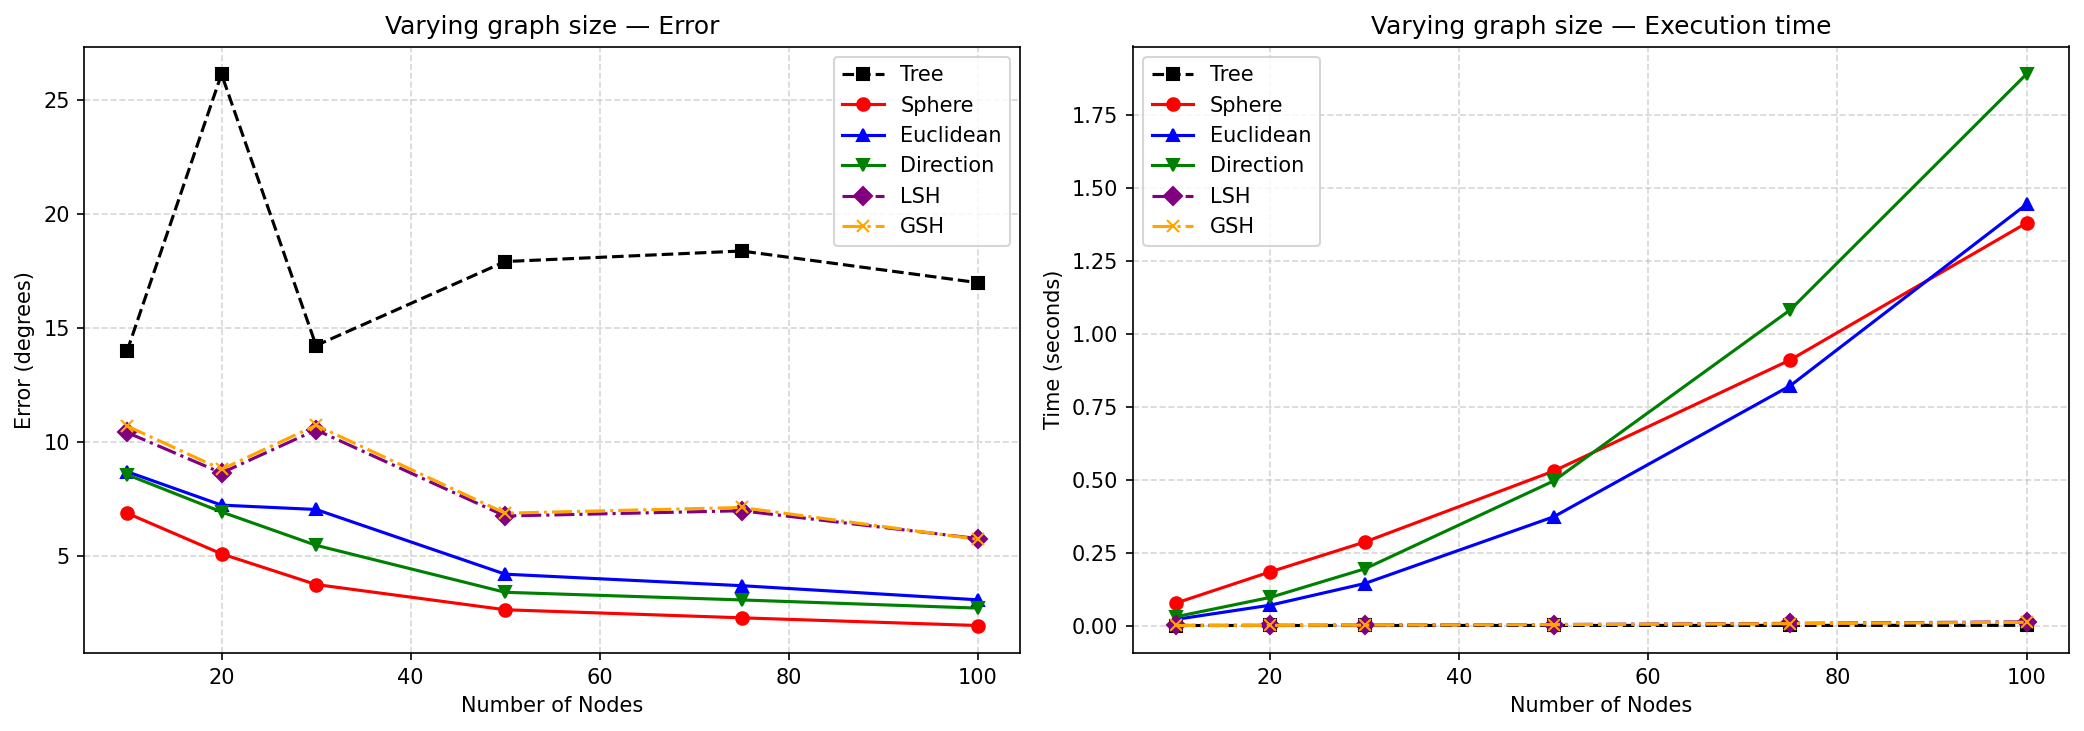
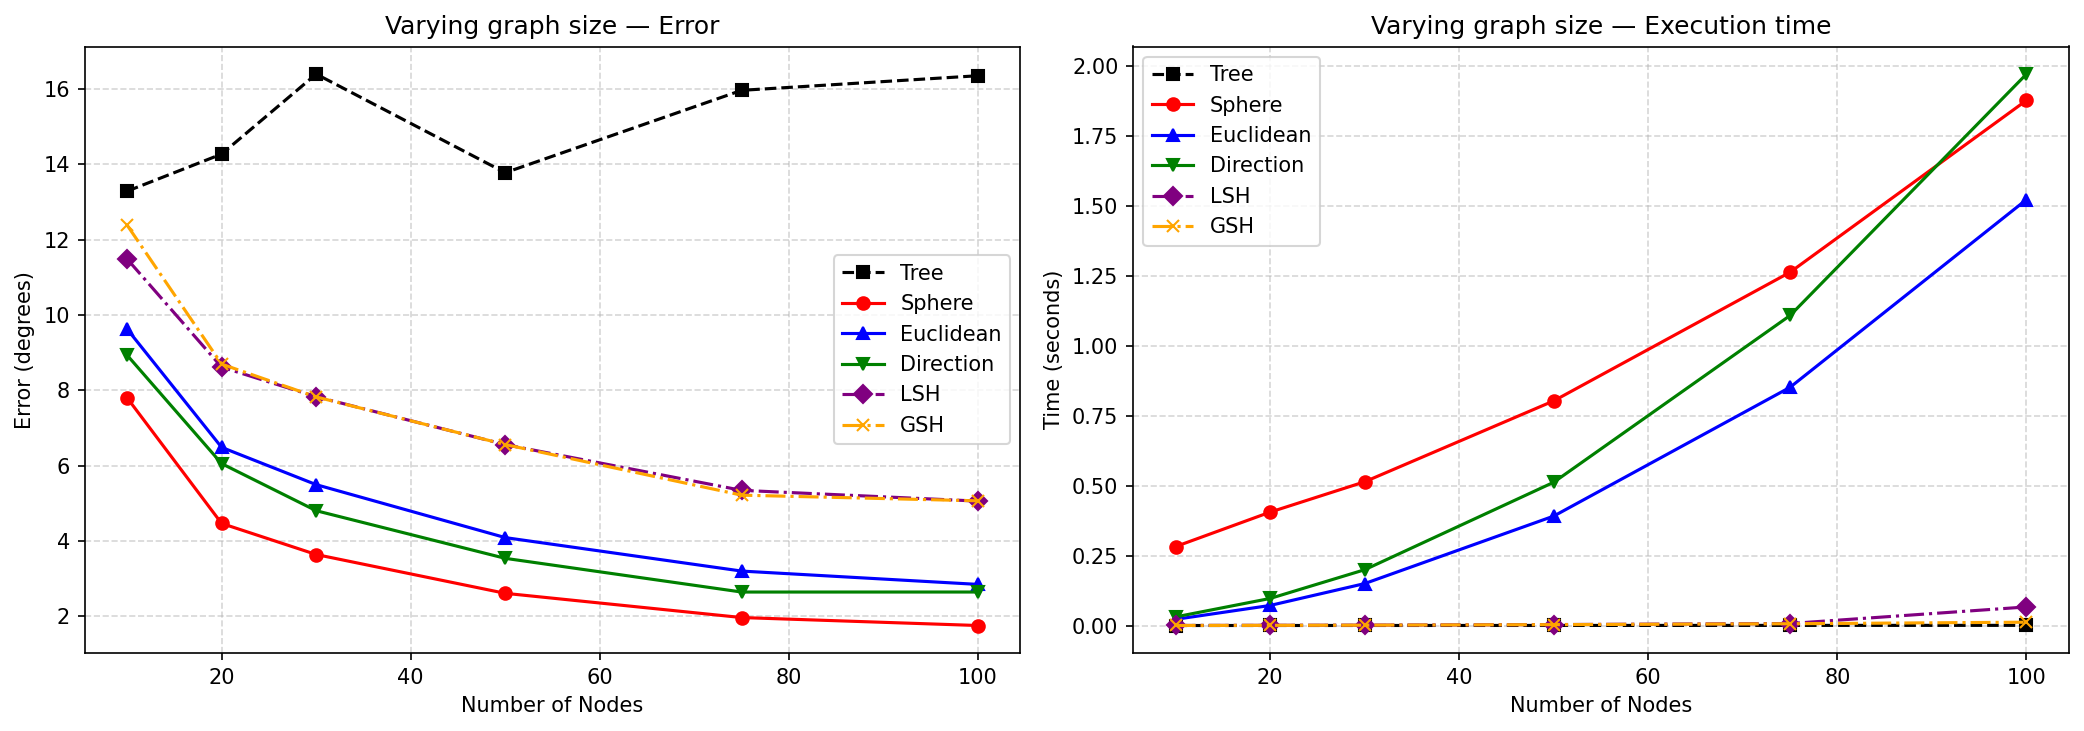
added IRLS weights

diff --git a/src/graph.py b/src/graph.py
@@ -161,22 +161,35 @@ class Graph:
     # ======================================================================
 
     @staticmethod
-    def _averaging_euclidean(estimates: List[np.ndarray]) -> np.ndarray:
+    def _averaging_euclidean(
+        estimates: List[np.ndarray],
+        weights: Optional[np.ndarray] = None,
+    ) -> np.ndarray:
         """
         Euclidean average (Sec. 4.3 of [1]).
 
         Normalise each estimate to unit Frobenius norm, compute the
         componentwise mean, then re-normalise.  This ignores the curved
         geometry of the sphere but is fast and works surprisingly well.
+
+        Parameters
+        ----------
+        weights : array of shape (K,), optional
+            Per-estimate IRLS weights.  Uniform if None.
         """
-        # Map each 3×3 matrix to a unit-norm vector in R^9.
-        h_vecs = [h.flatten() / np.linalg.norm(h.flatten()) for h in estimates]
-        c = np.mean(h_vecs, axis=0)
+        h_vecs = np.array(
+            [h.flatten() / np.linalg.norm(h.flatten()) for h in estimates]
+        )
+        w = np.ones(len(estimates)) if weights is None else np.asarray(weights)
+        c = (w[:, None] * h_vecs).sum(axis=0)
         c /= np.linalg.norm(c)
         return c.reshape((3, 3))
 
     @staticmethod
-    def _averaging_direction(estimates: List[np.ndarray]) -> np.ndarray:
+    def _averaging_direction(
+        estimates: List[np.ndarray],
+        weights: Optional[np.ndarray] = None,
+    ) -> np.ndarray:
         """
         Direction-based average (Sec. 4.1 of [1]).
 
@@ -184,39 +197,56 @@ class Graph:
         the orthogonal complement of the other is zero.  Stacking these
         constraints for all estimates and solving in the least-squares sense
         reduces to finding the eigenvector of
-            M = Σ_k  (h_k h_k^T) / (h_k^T h_k)
+            M = Σ_k  w_k · (h_k h_k^T) / (h_k^T h_k)
         corresponding to the *largest* eigenvalue.
+
+        Parameters
+        ----------
+        weights : array of shape (K,), optional
+            Per-estimate IRLS weights.  Uniform if None.
         """
         h_vecs = [h.flatten() for h in estimates]
-        # Build the 9×9 matrix whose maximum eigenvector is the centroid.
-        M = sum(np.outer(h, h) / np.dot(h, h) for h in h_vecs)
+        w = np.ones(len(estimates)) if weights is None else np.asarray(weights)
+        M = sum(wk * np.outer(h, h) / np.dot(h, h) for wk, h in zip(w, h_vecs))
         eigenvalues, eigenvectors = np.linalg.eigh(M)
         # eigh returns eigenvalues in ascending order — take the last column.
         c = eigenvectors[:, -1]
         return c.reshape((3, 3))
 
     @staticmethod
-    def _averaging_sphere(estimates: List[np.ndarray]) -> np.ndarray:
+    def _averaging_sphere(
+        estimates: List[np.ndarray],
+        weights: Optional[np.ndarray] = None,
+    ) -> np.ndarray:
         """
-        Spherical average — L1 geodesic mean on the unit sphere (Sec. 4.2 of [1]).
+        Spherical average — weighted L1 geodesic mean on the unit sphere (Sec. 4.2 of [1]).
 
-        The centroid c minimises Σ_k arccos(c^T h̄_k) subject to ||c|| = 1.
-        Setting the gradient to zero gives a fixed-point equation (Eq. 10 in [1]):
-            c = α · Σ_k  h̄_k / sqrt(1 − (c^T h̄_k)²)
+        The centroid c minimises Σ_k w_k · arccos(c^T h̄_k) subject to ||c|| = 1.
+        Setting the gradient to zero gives the fixed-point equation (Eq. 10 in [1]):
+            c = α · Σ_k  w_k · h̄_k / sqrt(1 − (c^T h̄_k)²)
         which we iterate until convergence.
+
+        Parameters
+        ----------
+        weights : array of shape (K,), optional
+            Per-estimate IRLS weights (w_k in the formula above).  Uniform if None.
         """
         # (K, 9) matrix of unit-norm flattened homographies
         H = np.stack([h.flatten() for h in estimates])
         H /= np.linalg.norm(H, axis=1, keepdims=True)
 
-        # Initialise with Euclidean mean
-        c = H.mean(axis=0)
+        irls_w = (
+            np.ones(len(estimates)) if weights is None else np.asarray(weights)
+        )
+
+        # Initialise with weighted Euclidean mean
+        c = (irls_w[:, None] * H).sum(axis=0)
         c /= np.linalg.norm(c)
 
         for _ in range(50):
             dots = np.clip(H @ c, -1.0, 1.0)  # (K,)
-            weights = 1.0 / np.maximum(np.sqrt(1 - dots**2), 1e-6)  # (K,)
-            c_new = weights @ H  # (9,)
+            sphere_w = 1.0 / np.maximum(np.sqrt(1 - dots**2), 1e-6)  # (K,)
+            c_new = (irls_w * sphere_w) @ H  # (9,)
             c_new /= np.linalg.norm(c_new)
             if np.max(np.abs(c_new - c)) < 1e-8:
                 break
@@ -243,6 +273,62 @@ class Graph:
         )
 
     # ======================================================================
+    # IRLS helpers
+    # ======================================================================
+
+    def _edge_residual(self, i: int, j: int) -> float:
+        """
+        Angular residual (radians) between the measured Z_ij and the
+        currently estimated X_i · X_j^{-1}.
+
+        This is the per-edge analogue of ``calculate_angular_error``:
+        both vectors are flattened to R^9 and normalised before the dot
+        product, and the absolute value handles the sign ambiguity of
+        projective representations.
+        """
+        Z_ij = self.edges[(i, j)]
+        pred = self.vertices[i] @ np.linalg.inv(self.vertices[j])
+        v1 = Z_ij.flatten()
+        v1 = v1 / np.linalg.norm(v1)
+        v2 = pred.flatten()
+        v2 = v2 / np.linalg.norm(v2)
+        return float(np.arccos(np.clip(np.abs(np.dot(v1, v2)), 0.0, 1.0)))
+
+    def _compute_irls_weights(
+        self, cauchy_scale: float
+    ) -> Dict[Tuple[int, int], float]:
+        """
+        Compute Cauchy IRLS weights for every undirected edge.
+
+        For each edge (i, j) the residual r = min(r_ij, r_ji) is computed
+        (both are equal by construction, but the min guarantees symmetry as
+        stated in the paper).  The Cauchy robust function
+            w = 1 / (1 + (r / cauchy_scale)^2)
+        maps small residuals (inliers) close to 1 and large residuals
+        (outliers) toward 0.
+
+        Parameters
+        ----------
+        cauchy_scale : float
+            Controls the inlier/outlier threshold.  Residuals much larger
+            than this value are effectively suppressed.
+
+        Returns
+        -------
+        weights : dict  {(min_i, max_j) → float}
+            One weight per undirected edge.
+        """
+        weights: Dict[Tuple[int, int], float] = {}
+        for i, j in self.edges:
+            if i >= j:
+                continue
+            r_ij = self._edge_residual(i, j)
+            r_ji = self._edge_residual(j, i)
+            r = min(r_ij, r_ji)
+            weights[(i, j)] = 1.0 / (1.0 + (r / cauchy_scale) ** 2)
+        return weights
+
+    # ======================================================================
     # METHOD 1: Iterative synchronization  (Madhavan et al. [1])
     # ======================================================================
 
@@ -252,9 +338,12 @@ class Graph:
         max_iters: int = 100,
         tol: float = 1e-6,
         gauss_seidel: bool = False,
+        irls_iters: int = 0,
+        cauchy_scale: float = 0.1,
     ) -> None:
         """
-        Iterative synchronization following Madhavan, Fusiello & Arrigoni [1].
+        Iterative synchronization following Madhavan, Fusiello & Arrigoni [1],
+        with optional IRLS outlier suppression.
 
         Stops early when the maximum per-entry change across all vertices
         drops below ``tol`` (convergence criterion).
@@ -262,15 +351,22 @@ class Graph:
         For each node i (processed in descending degree order):
           1. Compute neighbour estimates: X_{i|j} = Z_{ij} · X_j  for every
              neighbour j of i.
-          2. Average these estimates using the chosen method to get a new X_i.
+          2. Average these estimates (weighted by current IRLS weights) to
+             get a new X_i.
           3. Re-normalise X_i into SL(3).
+
+        When ``irls_iters > 0`` an outer IRLS loop wraps the inner sync sweep:
+        after each full convergence, per-edge Cauchy weights are recomputed
+        from the residual  r_ij = angle(Z_ij, X_i · X_j^{-1})  in R^9, then
+        the inner sweep restarts with the updated weights.  This suppresses
+        gross-outlier edges without requiring explicit outlier detection.
 
         Parameters
         ----------
         avg_method : str
             One of ``"euclidean"``, ``"direction"``, ``"sphere"``.
         max_iters : int
-            Maximum number of full sweeps over all vertices.
+            Maximum number of full sweeps per IRLS round.
         tol : float
             Convergence threshold on max |X_new - X_old| entry-wise.
         gauss_seidel : bool
@@ -280,40 +376,67 @@ class Graph:
             images due to order-dependent updates; benchmark before enabling.
             Default is False (Jacobi): all updates applied after the full sweep,
             order-independent and consistent with the original paper.
+        irls_iters : int
+            Number of IRLS outer iterations (weight-update rounds).  0 (default)
+            gives the original unweighted behaviour.
+        cauchy_scale : float
+            Inlier/outlier threshold for the Cauchy weight function (radians).
+            Edges with residual >> cauchy_scale are suppressed toward weight 0.
+            Typical range: 0.05–0.3 depending on expected noise level.
         """
         sorted_verts = self._sorted_vertices_by_degree()
         avg_func = self._averaging_map.get(
             avg_method.lower(), self._averaging_euclidean
         )
 
-        for _ in range(max_iters):
-            max_change = 0.0
-            new_vertices = {}
-            for i in sorted_verts:
-                neighbours = self.adj.get(i, set())
-                if not neighbours:
-                    continue
+        # Uniform weights to start; updated each IRLS round.
+        edge_weights: Dict[Tuple[int, int], float] = {
+            (min(i, j), max(i, j)): 1.0 for i, j in self.edges if i < j
+        }
 
-                # Eq. (4) in [1]: X_{i|j} = Z_{ij} · X_j
-                estimates = [
-                    self.edges[(i, j)] @ self.vertices[j] for j in neighbours
-                ]
+        for _outer in range(irls_iters + 1):
+            # ── Inner sync sweep ─────────────────────────────────────────────
+            for _ in range(max_iters):
+                max_change = 0.0
+                new_vertices = {}
+                for i in sorted_verts:
+                    neighbours = list(self.adj.get(i, set()))
+                    if not neighbours:
+                        continue
 
-                avg_xi = avg_func(estimates)
-                x_new = self._norm_matrix(avg_xi)
+                    # Eq. (4) in [1]: X_{i|j} = Z_{ij} · X_j
+                    estimates = [
+                        self.edges[(i, j)] @ self.vertices[j]
+                        for j in neighbours
+                    ]
+                    w = np.array(
+                        [
+                            edge_weights[(min(i, j), max(i, j))]
+                            for j in neighbours
+                        ]
+                    )
 
-                max_change = max(max_change, np.max(np.abs(x_new - self.vertices[i])))
+                    avg_xi = avg_func(estimates, w)
+                    x_new = self._norm_matrix(avg_xi)
 
-                if gauss_seidel:
-                    self.vertices[i] = x_new
-                else:
-                    new_vertices[i] = x_new
+                    max_change = max(
+                        max_change, np.max(np.abs(x_new - self.vertices[i]))
+                    )
 
-            if not gauss_seidel:
-                self.vertices.update(new_vertices)
+                    if gauss_seidel:
+                        self.vertices[i] = x_new
+                    else:
+                        new_vertices[i] = x_new
 
-            if max_change < tol:
-                break
+                if not gauss_seidel:
+                    self.vertices.update(new_vertices)
+
+                if max_change < tol:
+                    break
+
+            # ── IRLS weight update (skip after the last round) ────────────────
+            if _outer < irls_iters:
+                edge_weights = self._compute_irls_weights(cauchy_scale)
 
     # ======================================================================
     # METHOD 2: Spectral synchronization  (Schroeder et al. [2])
